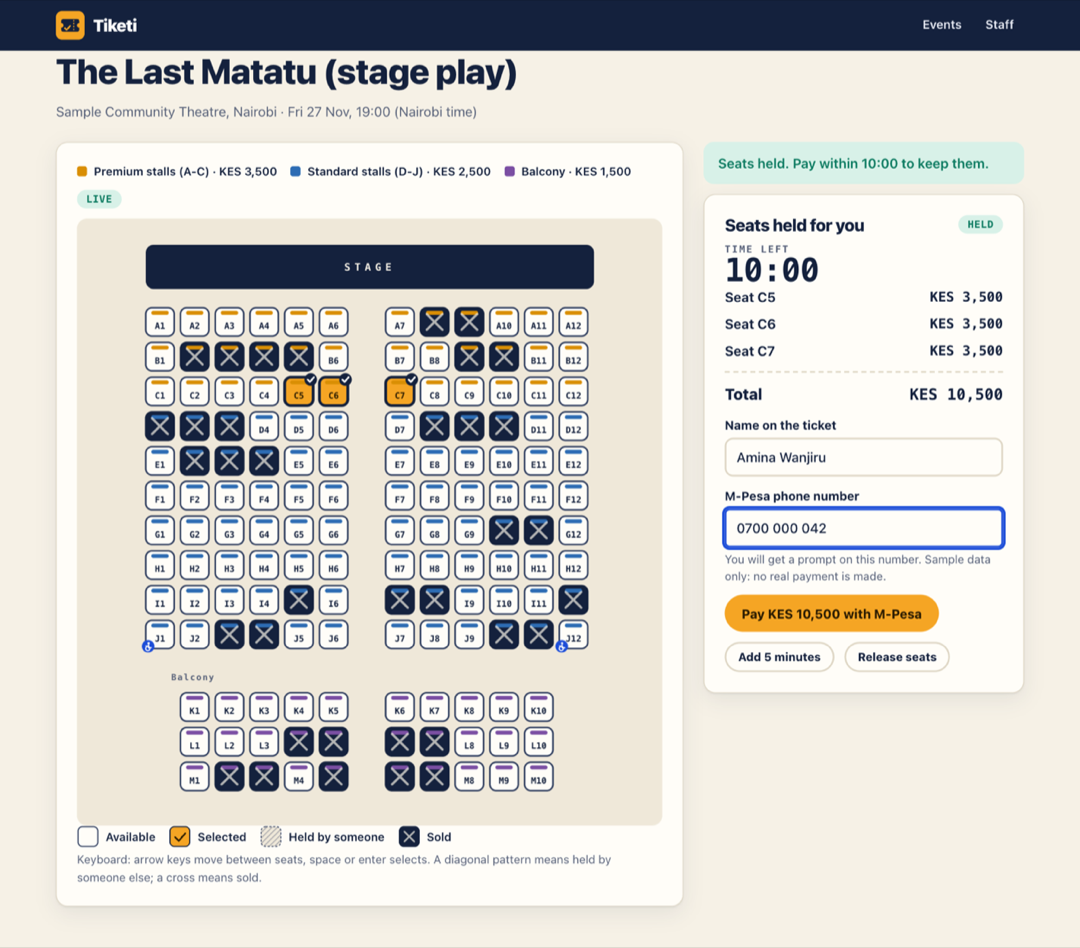
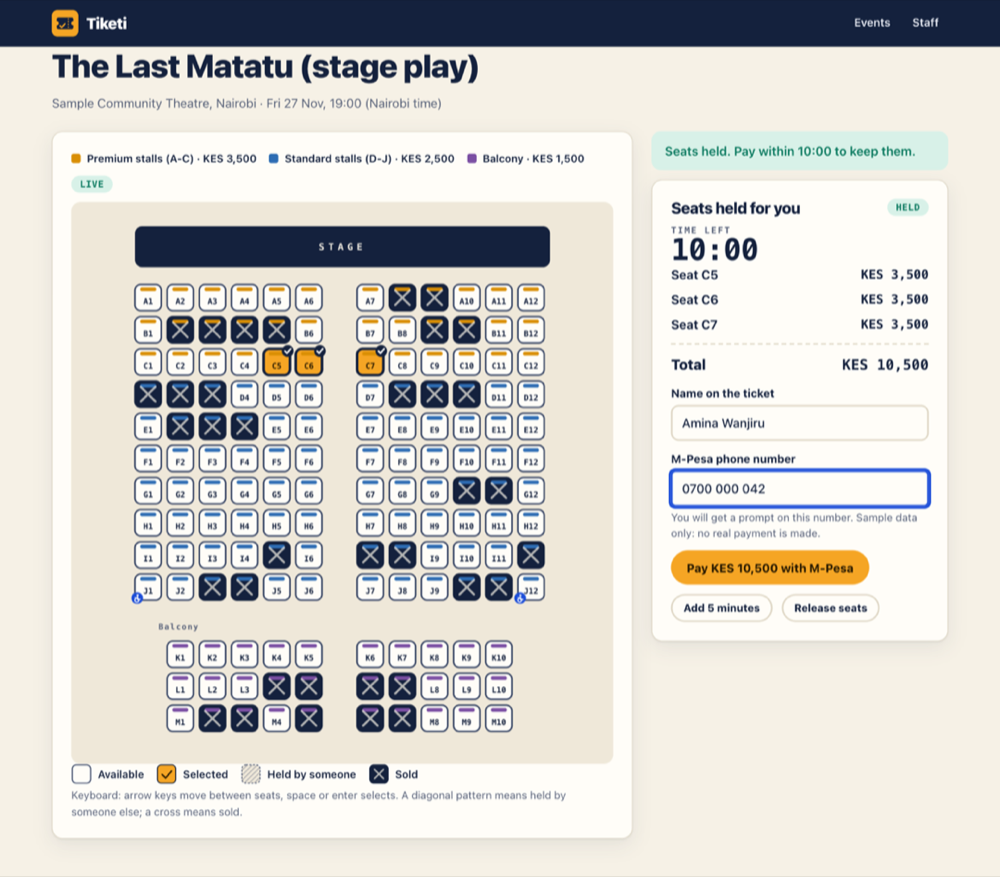
Add README and case study

diff --git a/vite.config.ts b/vite.config.ts
@@ -4,7 +4,7 @@ export default defineConfig({
   root: 'src/web',
   build: { outDir: '../../dist/web', emptyOutDir: true, target: 'es2022' },
   server: {
-    port: 4281,
-    proxy: { '/api': 'http://localhost:4280' },
+    // `npm run dev` runs the API (default port 8787) and Vite (5173) side by side.
+    proxy: { '/api': `http://localhost:${process.env.PORT ?? 8787}` },
   },
 });

diff --git a/README.md b/README.md
@@ -1,5 +1,146 @@
 # Tiketi
 
-Seat booking and ticketing for events and long-distance coaches that cannot double-book a seat and cannot be fooled by fake tickets.
+**Seat booking and ticketing that cannot double-book a seat and cannot be fooled by fake tickets.**
 
-Work in progress: being built in public.
+[![CI](https://github.com/Victor-Wambua/tiketi/actions/workflows/ci.yml/badge.svg)](https://github.com/Victor-Wambua/tiketi/actions/workflows/ci.yml)
+![License: MIT](https://img.shields.io/badge/license-MIT-blue.svg)
+![TypeScript](https://img.shields.io/badge/TypeScript-strict-3178c6)
+![Node](https://img.shields.io/badge/node-22%20%7C%2024-339933)
+![Hono](https://img.shields.io/badge/Hono-%2B%20node%3Asqlite-e36002)
+
+![Choosing seats on the theatre map, with the hold countdown and checkout panel](docs/screenshots/seat-map-hold.png)
+
+> Status: portfolio build. Runs locally with synthetic sample data. Payments are **mocked** (no real M-Pesa), and camera scanning has not been tried on a physical phone. See [Status and limits](#status-and-limits).
+
+## The problem
+
+Event and coach bookings in Kenya often run on WhatsApp messages and phone calls. Two people get promised seat 7C. A "ticket" is a screenshot that can be forwarded and resold. At the gate, staff have no data to check it against, and the signal is often poor.
+
+Tiketi is a small, complete answer to that: exact seats, a hold while you pay, a payment that can fail in every way M-Pesa can fail, and a ticket whose QR code staff can verify with no connection.
+
+## What it does
+
+- **Exact seats, never sold twice.** One database constraint allows at most one claim per seat. Holds last 10 minutes, can be extended once, and expire on their own. Shipped layouts: a 14-seater matatu, a 49-seater 2+2 coach and a 150-seat theatre (JSON seat maps with sections, rows, price tiers and accessible seats).
+- **Customer flow on a 360px phone.** Seat map (SVG) with arrow-key navigation, screen-reader labels and states that differ by pattern, not only colour; live updates over server-sent events; hold countdown; pay; ticket.
+- **Payments behind a port.** A `PaymentProvider` interface and a mock M-Pesa STK adapter. Outcomes (success, cancelled, timeout, insufficient funds) arrive later as HMAC-signed callbacks. A reviewer "phone" panel in the UI lets you choose the outcome.
+- **Money errors are recorded, not lost.** Payment after the hold expired, the wrong amount, or a duplicate payment creates a refund-needed record for the organiser instead of a silent loss or a double sale.
+- **Tickets that cannot be faked.** Each ticket is signed with Ed25519. The QR is rendered on the server as inline SVG. Transfer re-issues the ticket with a new version, so the old QR stops working. Cancelling voids it and refunds.
+- **Gate scanner.** Verifies the signature in the browser with no network, then asks the server, which admits once ("Already scanned at 18:42 at Gate B"). Offline scans are queued, checked against a downloaded ticket list, and reconciled later. Camera scanning uses `BarcodeDetector` where available, with manual code entry as the fallback.
+- **Organiser dashboard.** Sales by tier, seat heat map (available, held, sold, checked in), occupancy over time, gate throughput, offline conflicts, refunds to process, CSV export. Staff roles: organiser and gate.
+
+| Phone: seat map                          | Phone: mock M-Pesa                         | Phone: ticket                          | Phone: gate replay                          |
+| ---------------------------------------- | ------------------------------------------ | -------------------------------------- | ------------------------------------------- |
+| ![](docs/screenshots/phone-seat-map.png) | ![](docs/screenshots/phone-mock-mpesa.png) | ![](docs/screenshots/phone-ticket.png) | ![](docs/screenshots/phone-gate-replay.png) |
+
+![Organiser dashboard](docs/screenshots/organiser-dashboard.png)
+
+## Quick start
+
+Needs Node 22.13 or newer (it uses the built-in `node:sqlite`).
+
+```sh
+git clone https://github.com/Victor-Wambua/tiketi.git
+cd tiketi
+npm ci
+npm run seed      # synthetic events, tickets and demo staff (replaces data/tiketi.db)
+npm run build     # builds the front-end into dist/web
+npm start         # http://localhost:8787
+```
+
+Demo staff, created only by the local seed:
+
+| Role       | Username    | Password              |
+| ---------- | ----------- | --------------------- |
+| Organiser  | `organiser` | `organiser-demo-pass` |
+| Gate staff | `gate1`     | `gate-demo-pass`      |
+
+Try it: open an event, pick two seats, **Hold seats**, enter any name and `0700 000 001`, **Pay**, then press **Enter PIN and send** on the mock phone. Copy the code under the QR into **Gate** (sign in as `gate1`). Scan it twice. Tick **Work offline** and scan another ticket to see the queue.
+
+For development run `npm run dev` (API on 8787, Vite on 5173). Settings are in `.env.example`.
+
+## How it works
+
+```mermaid
+flowchart LR
+  B[Browser<br/>vanilla TS, SVG seat map] -- JSON + SSE --> H[Hono API]
+  G[Gate scanner<br/>offline verify + queue] -- scans --> H
+  H --> S[(SQLite<br/>node:sqlite)]
+  H -- initiateStk / refund --> P[[PaymentProvider port]]
+  P --> M[Mock M-Pesa]
+  M -- signed callback --> W[/webhook: HMAC, de-dupe/]
+  W --> S
+```
+
+Key decisions (the reasoning is in [docs/CASE-STUDY.md](docs/CASE-STUDY.md)):
+
+- **The database refuses a double booking.** `seat_claims` has a primary key on `(departure_id, seat_id)`. A hold is an atomic insert-if-absent for all its seats inside one `BEGIN IMMEDIATE` transaction; if any seat is taken, everything rolls back. Expired holds are released lazily on read and by a sweeper.
+- **A booking is confirmed only by a verified payment callback**, and only from a hold that is still active, unexpired and owned by the same session. Otherwise the money goes to a refund-needed record.
+- **Every mutating request carries an `Idempotency-Key`.** Replays return the first answer. Sign-in, sign-out, the payment webhook (its own de-duplication) and the mock phone are the exceptions.
+- **Offline verification has a stated limit.** A scanner with no signal cannot know about a transfer or a second scan at another gate. The server settles it when the scan syncs, and flags collisions for the organiser.
+
+## Testing
+
+```sh
+npm test            # 88 tests, node:test, no network
+npm run test:e2e    # Playwright (needs: npx playwright install chromium; npm run build)
+npm run check       # typecheck + lint + tests
+```
+
+Last run: **88 of 88 unit and integration tests pass** and **2 of 2 Playwright tests pass**. CI runs typecheck, lint, tests and build on Node 22 and 24, then the e2e job on Node 24.
+
+| Area                    | Tests | What is covered                                                                                                                                                                                                                                                                                                                   |
+| ----------------------- | ----- | --------------------------------------------------------------------------------------------------------------------------------------------------------------------------------------------------------------------------------------------------------------------------------------------------------------------------------- |
+| Concurrency             | 6     | 200 simultaneous holds on one seat, in process and over real HTTP (100-socket pool), exactly one winner; the same race on an expired seat; randomised multi-seat stress that checks the global invariant after holds, releases, payments and cancels; expiry races; four SQLite connections in worker threads racing for one seat |
+| Hold state machine      | 10    | TTL, lazy expiry, sweeper, one extension of +5 minutes, release, replacement, limits, DB constraint                                                                                                                                                                                                                               |
+| Payments                | 17    | Happy path, bad HMAC, duplicate, late, wrong amount, cancelled/timeout/insufficient funds then retry, duplicate payment, refund once                                                                                                                                                                                              |
+| Gate                    | 14    | Admit once, forged and foreign codes, transfer, cancel, two gates racing over HTTP, offline reconciliation                                                                                                                                                                                                                        |
+| Scanner engine          | 8     | Offline admit and queue, drop mid-scan, reload, the transfer-while-offline limit, two offline gates                                                                                                                                                                                                                               |
+| Auth and idempotency    | 15    | Role matrix on every staff endpoint, ownership checks, throttling, security headers, key replay and mismatch                                                                                                                                                                                                                      |
+| Tickets and QR          | 8     | Flipping each of the 512 signature bits is rejected; field tampering; the rendered QR is decoded back with a QR reader                                                                                                                                                                                                            |
+| Dashboard, CSV, layouts | 10    | Numbers, formula-injection safe export, 14/49/150 seats                                                                                                                                                                                                                                                                           |
+| e2e (Playwright)        | 2     | Two browser contexts race for one seat (one wins, the other is told and picks another), pay, ticket, gate admits then refuses replay, offline scan then sync; dashboard roles                                                                                                                                                     |
+
+Not measured: code coverage percentage.
+
+## Project layout
+
+```
+src/server/        Hono app, services (inventory, bookings, paymentCallbacks, tickets, gate, admin), schema
+src/server/http/   routes and middleware (sessions, idempotency, security headers)
+src/server/payments/  PaymentProvider port and the mock M-Pesa adapter
+src/shared/        ticket code format + Ed25519 verify (used by server and browser), layout schema
+src/web/           vanilla-TS front-end: pages, seat map, gate engine, styles
+layouts/           the three shipped seat maps (generated by `npm run layouts`)
+tests/  e2e/       node:test suites and Playwright
+docs/              case study, screenshots
+```
+
+## Configuration
+
+| Variable                   | Default                    | Meaning                                                   |
+| -------------------------- | -------------------------- | --------------------------------------------------------- |
+| `PORT`                     | `8787`                     | HTTP port                                                 |
+| `DATABASE_PATH`            | `data/tiketi.db`           | SQLite file                                               |
+| `TICKET_KEY_PATH`          | `data/ticket-key.pem`      | Ed25519 private key; created on first start (git-ignored) |
+| `MPESA_CALLBACK_SECRET`    | `dev-only-callback-secret` | HMAC secret for payment callbacks                         |
+| `HOLD_TTL_SECONDS`         | `600`                      | Hold lifetime                                             |
+| `MOCK_STK_TIMEOUT_SECONDS` | `60`                       | Unanswered mock prompt times out after this               |
+| `MOCK_PAYMENTS`            | `1`                        | Serves the mock phone endpoints                           |
+
+## Status and limits
+
+Portfolio build, run only with synthetic data. Nothing here has real users or a live deployment.
+
+- **Payments are mocked.** The callback shape follows Safaricom's STK callback, but the HMAC is this app's own protection; a real integration would also need Daraja credentials, IP allow-listing and a real reconciliation job. Not verified against the live API.
+- **One node.** SQLite with an in-process event bus and in-memory sign-in throttle. Scaling out needs a shared database and bus.
+- **Camera scanning is untested on a physical device.** The code path exists; the tests use manual entry. The offline app shell (service worker) is lightly exercised, not tested for a cold reload offline.
+- **No SMS or email delivery.** Tickets are shown on screen and by link.
+- **No UI for creating events.** Events and layouts come from the seed.
+
+Next steps: a real STK adapter behind the same port, SMS ticket delivery, a signed offline "revocation" feed that includes recent transfers, event and layout editing, Postgres for multi-node.
+
+---
+
+Built by Victor Wambua · [portfolio](https://victor-wambua.github.io/victor-portfolio/) · [case studies](https://github.com/Victor-Wambua/case-studies)
+
+MIT licensed.

diff --git a/docs/CASE-STUDY.md b/docs/CASE-STUDY.md
@@ -1,0 +1,59 @@
+# Case study: Tiketi
+
+## The problem
+
+Small coach operators and event organisers in Kenya often sell seats over WhatsApp and phone calls. Three things go wrong. Two people are promised the same seat. The "ticket" is a screenshot, so it can be copied and resold. And at the gate, staff have nothing to check it against, often with no signal.
+
+I wanted to build the smallest system that fixes all three and to be honest about what it cannot fix.
+
+## Goals and non-goals
+
+Goals: a seat can never be sold twice; a payment that arrives at the wrong moment never disappears; a ticket can be checked without trusting a screenshot, with or without network; an organiser can see what is happening.
+
+Non-goals: a real payment integration, multi-node scale, event-creation tooling, or SMS delivery. Payments are a mock behind an interface, and the data is synthetic.
+
+## What I built
+
+A TypeScript app: Hono and `node:sqlite` on the server, a vanilla-TS front-end with an SVG seat map, no UI framework. Customers pick seats, hold them for ten minutes, pay through a mock M-Pesa prompt and get a signed QR ticket. Gate staff scan tickets in a web page that verifies signatures in the browser. Organisers get a dashboard.
+
+![Hold in progress](screenshots/seat-map-hold.png)
+
+## Design decisions and trade-offs
+
+**1. A constraint, not a check.** The obvious code reads "is the seat free?" and then inserts a booking. Two requests can both read "free" before either writes. I made the seat itself the lock: `seat_claims` has a primary key on `(departure_id, seat_id)`, and a hold does `INSERT ... ON CONFLICT DO NOTHING` for each seat inside one `BEGIN IMMEDIATE` transaction. If any insert changes zero rows, I throw and the whole transaction rolls back, so a multi-seat hold is all or nothing. Even a future bug in the application cannot create two claims, because the database would refuse. I considered optimistic version counters on a seat row; they need a retry loop and still need a unique key underneath, so the key won.
+
+**2. Holds are leases.** A hold has an expiry and is released two ways: lazily (any hold or read treats an overdue claim as free, so correctness never depends on a timer) and by a sweeper that tidies the rows. A hold can be extended once, by five minutes, and never past fifteen minutes in total. I considered unlimited extensions. They let one person sit on a popular seat indefinitely, so I capped them.
+
+**3. The payment can arrive at any time.** This was the hard part. M-Pesa answers asynchronously, and the answer can come after the hold expired, twice, or with a different amount. My rules:
+
+- A booking is confirmed only inside the callback transaction, only if the booking is still pending, the hold is active and unexpired, the hold belongs to the booking's own session, and every seat claim is still ours.
+- Anything else produces a refund-needed record with a reason (late payment, wrong amount, duplicate payment, seat taken, booking cancelled). The organiser pays it out from the dashboard through the same payment port, once.
+- When the prompt is sent, the hold is kept alive for the prompt timeout plus 30 seconds, so an on-time answer is not rejected because the clock ran out while the customer typed a PIN.
+- The callback is verified with HMAC-SHA256 over the raw body (constant-time compare) and de-duplicated on a hash of reference, result code and receipt. A failure never overrides a recorded success.
+
+I chose to refund every late payment, even when the seat happens to be still free. Auto-rebooking a stale payment is a surprise to the customer and a second code path to get wrong.
+
+**4. Signed tickets, verified offline.** The QR carries `TK1.<ticketId>.<departureId>.<seat>.<version>.<signature>`, an Ed25519 signature over those fields. The server signs with `node:crypto`; the browser verifies with the public key using a small pure-JS library, and a test checks the two agree. The QR is generated on the server (I use a small QR library and a test that decodes my rendered SVG back to the exact code). Links to tickets carry an HMAC token that includes the ticket version, so after a transfer the old link and the old QR both die.
+
+**5. What offline verification cannot prevent.** A signature proves a ticket was issued, not that it has not been used. A scanner with no signal cannot see a scan at another gate, a transfer made a minute ago, or a refund. I did not hide this. The scanner downloads a ticket list (id, version, status, already-scanned) while online and checks it offline, and it keeps a one-time-use cache on the device. Two devices can still both admit the same ticket while offline. The reconciliation policy when scans sync: the server admits a ticket with one compare-and-set update (`WHERE admitted_at IS NULL`); an offline collision is recorded for both sides, flagged for the organiser, and the earlier claimed time (clamped to be neither in the future nor before the ticket existed) is kept as the entry. Both people got in; the system reports it rather than pretending it prevented it. A scan made offline on a ticket transferred after the last sync is rejected at sync and recorded; the new holder can still enter.
+
+**6. Idempotency on every write.** Mobile networks retry. Every mutating endpoint requires an `Idempotency-Key`; the first result is stored per caller, a retry replays it, and the same key with a different body is rejected. A double-clicked "Pay" sends one prompt. Sign-in, the webhook and the mock phone are exempt, and the webhook has its own de-duplication.
+
+## How it is kept correct and safe
+
+The tests are written around the failure modes, not the happy path (88 tests, plus 2 browser tests).
+
+- **Concurrency.** 200 simultaneous hold attempts on one seat, in process and over real HTTP, give exactly one winner. Over HTTP I had to use a 100-socket pool, because macOS caps the listen backlog at 128 and 200 fresh connections got reset; the claim is "200 requests at once through 100 sockets". A randomised stress run, with 120 shoppers fighting over 20 hot seats and then paying, releasing and cancelling concurrently, checks the global invariant (at most one claim per seat, claims agree with holds and bookings, no two valid tickets for a seat) after each phase. A single SQLite connection in one Node process serialises writes by itself, so I also race four separate connections in worker threads; that run is what shows the constraint and the transaction doing the work, not the event loop.
+- **Payments.** Bad HMAC, duplicate, late, wrong amount, failure after success, a second payment, a session mismatch.
+- **Tickets.** Every one of the 512 signature bits flipped is rejected; changing seat, ticket, departure or version is rejected.
+- **Gate.** Four gates sending five scans each for one ticket over HTTP: one admission, nineteen duplicates.
+- **Security.** Role checks on every staff endpoint, ownership checks (a stranger gets 404 on someone else's hold or booking), scrypt password hashes, sign-in throttling, a strict CSP, a body size limit, CSV export that neutralises spreadsheet formulas.
+- **Money** is integer KES everywhere; totals are computed on the server from the seat rows, never from the client.
+
+## What I'd do differently, and what's next
+
+I would write the invariant checker first. I wrote it after the first stress test and it immediately made the later tests cheaper. I would also put the offline ticket list on a signed, versioned feed so a scanner can prove how stale its list is. Next: a real STK adapter, SMS delivery of ticket links, event and layout editing, and Postgres if it ever needs more than one node (the claim insert maps directly onto a unique index).
+
+## Status
+
+Portfolio build, runs locally with synthetic data. M-Pesa is mocked: the callback body follows Safaricom's STK shape, but nothing talks to the real API, and the HMAC is this app's own protection. SQLite is single-node. Camera scanning is implemented with `BarcodeDetector` but I have not tried it on a physical phone; the tests use manual entry. There is no live deployment.
